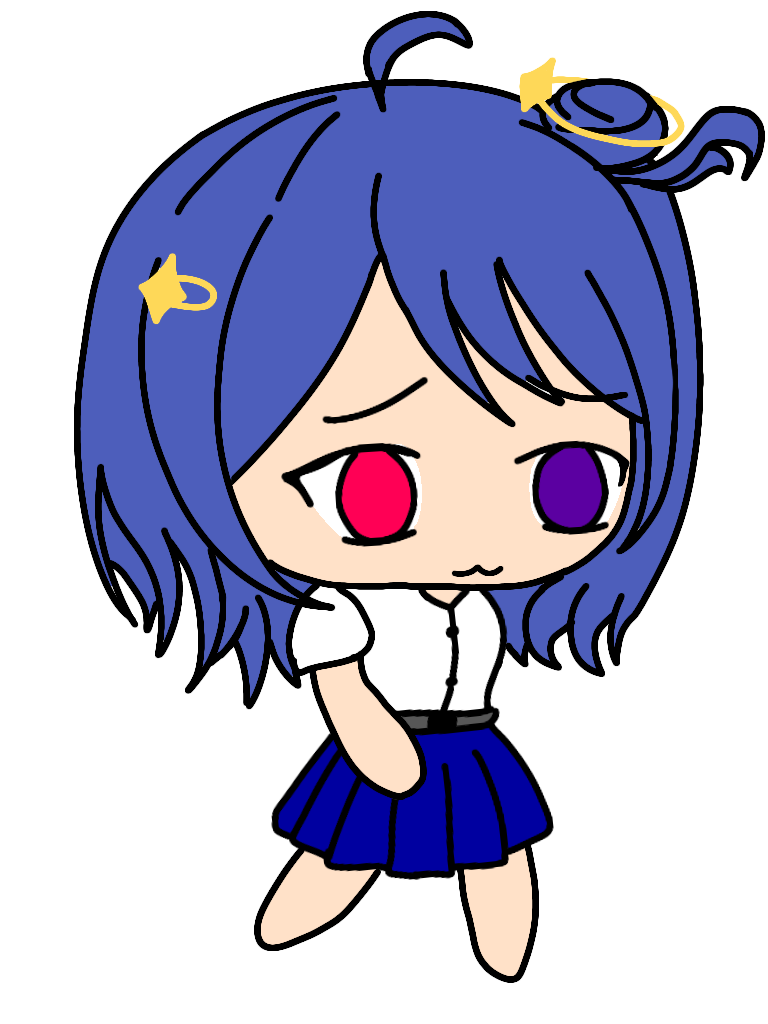
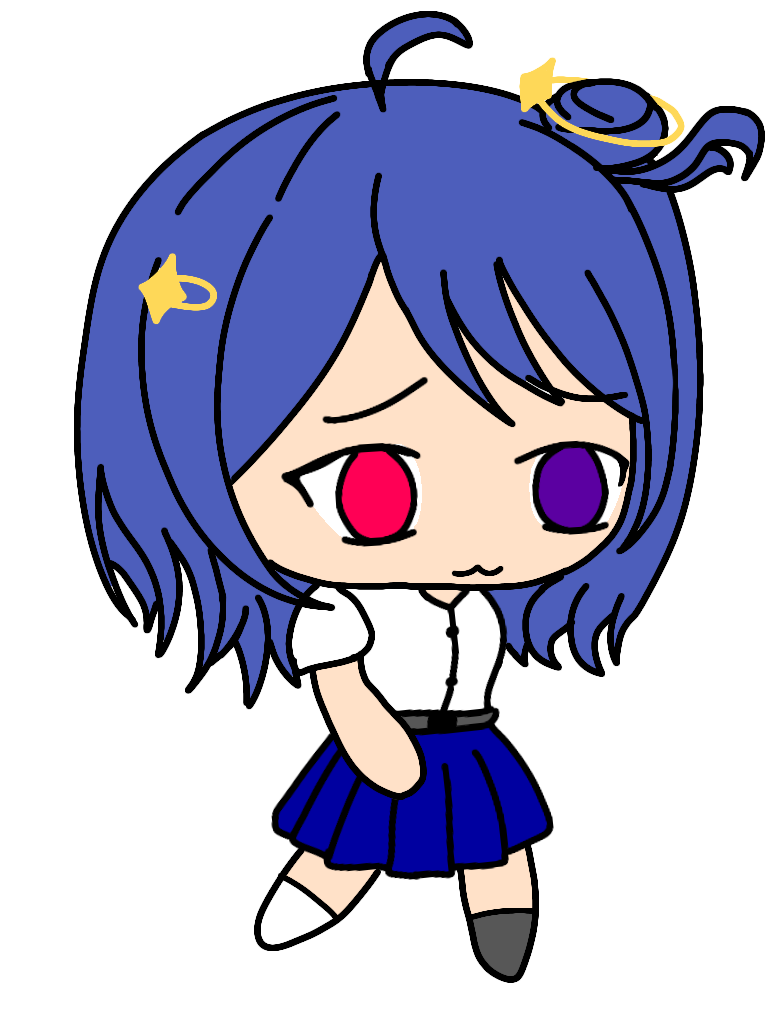
เพิ่มรูป + แก้บัคของ character เล็กน้อย

Changed region(s): [[0.5938, 0.875, 0.6875, 0.9688], [0.3438, 0.8438, 0.4375, 0.9375]]

diff --git a/character.py b/character.py
@@ -48,8 +48,7 @@ class Player(pygame.sprite.Sprite):
         # กำหนดความสูงของตัวละคร
         self.__player_height = player_height
         # การกระทำจะมี idle, walk, action
-        # self.action = 'idle'
-        self.action = 'walk'
+        self.action = 'idle'
         # key frame ปัจจุบันของตัวละคร
         self.key_frame = 1
         self.image = pygame.image.load(get_image.chibi_debirun_normal(self.action, self.key_frame))
@@ -60,9 +59,9 @@ class Player(pygame.sprite.Sprite):
         # ค่าการเคลื่อนที่ของตัวละคร
         self.speed = 0
         # ทิศทางที่ผู้เล่นหันอยู่ในแกน x ปัจจุบัน
-        self.direction_x = 'L'
-        # ทิศทางที่ผู้เล่นหันอยู่ในแกน y ปัจจุบัน
-        self.direction_y = 'U'
+        self.side_player = 'L'
+        # ทิศทางที่ผู้เล่นจะเดินไป
+        self.direction = 'L'
         # ค่าเก็บข้อมูล sprite ของเวทย์
         self.magic_sprites = pygame.sprite.Group()
 
@@ -94,52 +93,48 @@ class Player(pygame.sprite.Sprite):
         # การควมคุมของผู้เล่น
         if keys[pygame.K_LEFT] or keys[pygame.K_a]:  # ซ้าย
             self.speed = -self.__distance_speed
-            self.direction_x = 'L'
-            self.direction_y = None
+            self.side_player = 'L'
+            self.direction = 'L'
             self.set_action('walk')
         elif keys[pygame.K_RIGHT] or keys[pygame.K_d]:  # ขวา
             self.speed = self.__distance_speed
-            self.direction_x = 'R'
-            self.direction_y = None
+            self.side_player = 'R'
+            self.direction = 'R'
             self.set_action('walk')
         elif keys[pygame.K_UP] or keys[pygame.K_w]:  # บน
             self.speed = -self.__distance_speed
-            self.direction_x = None
-            self.direction_y = 'U'
+            self.direction = 'U'
             self.set_action('walk')
         elif keys[pygame.K_DOWN] or keys[pygame.K_s]:  # ล่าง
             self.speed = self.__distance_speed
-            self.direction_x = None
-            self.direction_y = 'D'
+            self.direction = 'D'
             self.set_action('walk')
+        else:
+            self.set_action('idle')
         # ปุ่มที่กดครั้งเดียว
-        # ยิงเวทย์ 
-        if keys[pygame.K_SPACE]:
-            self.set_action('action')
-            self.use_magic(var)
-        # for event in events:
-        #     if event.type == pygame.KEYDOWN:
-        #         if event.key == pygame.K_SPACE:
-        #             # ยิงเวทย์ 
-        #             self.set_action('action')
-        #             self.use_magic(var)
+        for event in events:
+            if event.type == pygame.KEYDOWN:
+                if event.key == pygame.K_SPACE:
+                    # ยิงเวทย์ 
+                    self.set_action('action')
+                    self.use_magic(var)
 
     def movement(self):
         # ผู้เล่นจะเคลื่อนที่ในแนวแกน x ตามค่าความเร็ว
-        if self.direction_x == 'L' or self.direction_x == 'R':
+        if self.direction == 'L' or self.direction == 'R':
             self.rect.x += self.speed
         # ผู้เล่นจะเคลื่อนที่ในแนวแกน y ตามค่าความเร็ว
-        if self.direction_y == 'U' or self.direction_y == 'D':
+        if self.direction == 'U' or self.direction == 'D':
             self.rect.y += self.speed
         # ความเร็วของผู้เล่นจะลดลงค่า 1 ทุก ๆ ครั้ง
         self.speed += int(sign(self.speed) * -1)
 
     def use_magic(self, var: Variable):
-        if self.direction_x == 'L':
+        if self.side_player == 'L':
             rect = self.rect.left
-        if self.direction_x == 'R':
+        if self.side_player == 'R':
             rect = self.rect.right
-        magic = self.Magic_object(self.__screen , rect, self.rect.centery, self.direction_x, self.__distance_speed)
+        magic = self.Magic_object(self.__screen , rect, self.rect.centery, self.side_player, self.__distance_speed)
         self.magic_sprites.add(magic)
         var.all_sprites.add(magic)
 
@@ -179,7 +174,7 @@ class Player(pygame.sprite.Sprite):
         try:
             self.image = pygame.image.load(get_image.chibi_debirun_normal(self.action, self.key_frame))
             self.image = pygame.transform.scale(self.image, (self.__screen.width(self.__player_width), self.__screen.height(self.__player_height)))
-            if self.direction_x == "L":
+            if self.side_player == "L":
                 self.image = pygame.transform.flip(self.image, True, False)
             self.rect = self.image.get_rect(center=(centerx, centery))
         except:

diff --git a/main.py b/main.py
@@ -65,7 +65,7 @@ while running:
     screen.window.fill(var.colors.WHITE)
     var.show_gem(screen, 420)
     var.text_name_game.show(screen.window, screen.pack_x(10), screen.pack_y(10))
-    var.text_version.show(screen.window, screen.pack_x(15), screen.pack_y(40), 'v.0.1.12')
+    var.text_version.show(screen.window, screen.pack_x(15), screen.pack_y(40), 'v.0.1.13')
     var.btnGacha.show(screen.window, screen.width(50), screen.height(50), screen.pack_x(580), screen.pack_y(240))
     var.btnPlay.show(screen.window, screen.width(50), screen.height(50), screen.pack_x(580), screen.pack_y(300))
     var.btnSetting.show(screen.window, screen.width(50), screen.height(50), screen.pack_x(520), screen.pack_y(10))

diff --git a/page_play_vsMons.py b/page_play_vsMons.py
@@ -11,6 +11,7 @@ def main(pygame: pygame,
          var: Variable, 
          screen: fw.Screen):
     
+    var.set_start()
     player = character.Player(screen, 60, 80)
     var.all_sprites.add(player)
 
